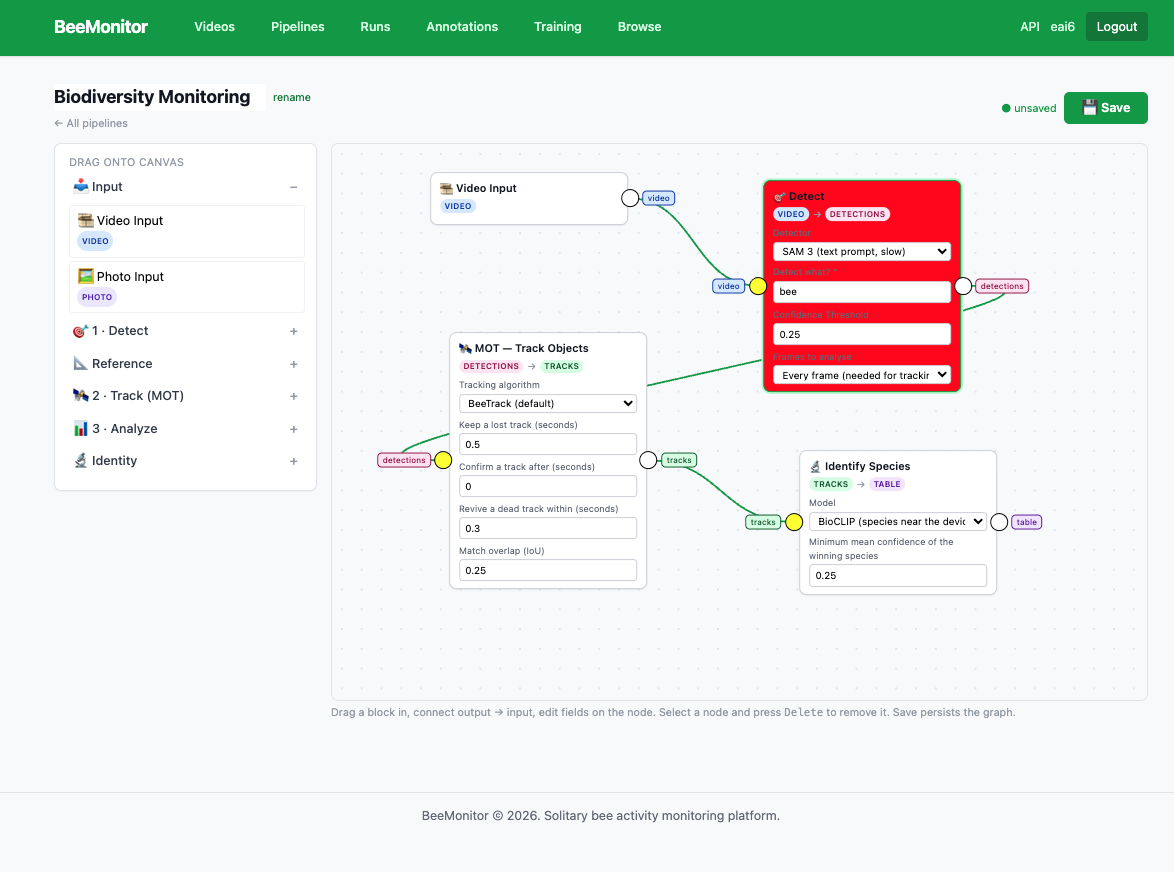
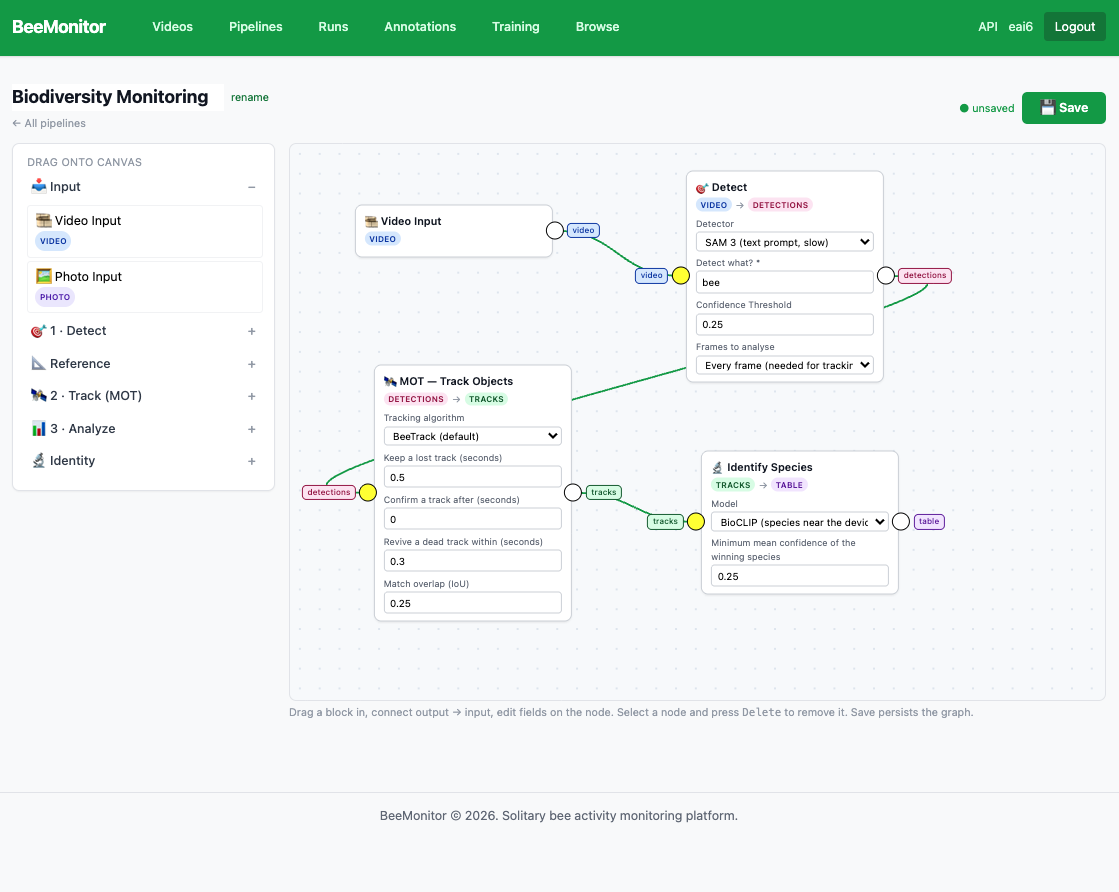
Docs: screenshots for every Use the platform page
22 figures (devices, ROI editor, sharing, upload, videos, photos, clip,
pipelines, editor, runs, batch, annotated clip, results, track crops,
annotation project and editor, training, browse, API). Key prefixes and
people's names are blurred. Text corrected to match the screens: sharing
lives under Edit, Runs filters, batch re-run through another pipeline,
training metrics.

diff --git a/docs/platform/runs.md b/docs/platform/runs.md
@@ -1,30 +1,65 @@
 # Runs
 
-**Runs** lists everything you've run. Running a pipeline on one clip is a *run*; running it on several clips
-at once is a *batch*, one run per clip. The list is grouped into **Still running**, **With failures**,
-**All completed** and **Single runs**.
+**Runs** lists everything you've run, newest first. Running a pipeline on several clips at once is a
+*batch*, one run per clip. Each row shows the pipeline, how many clips, when, and how many finished or
+failed. Filter by **With failures**, **Still running** or **All completed**, and open one with **Results →**.
+
+<figure markdown>
+  ![The Runs page: a list of launches, each with a progress bar, done and failed counts, and Results](../assets/platform/runs-list.png)
+  <figcaption>Runs.</figcaption>
+</figure>
 
 ## A batch
 
 The batch page combines its clips:
 
-- **Summary:** how many clips finished or failed, and the units and sites they came from.
-- **Downloads:** one CSV per table for every clip in the batch, each row labelled with its clip, device,
-  site and absolute time: **Detections**, **Tracking**, **Tracks**, **Events** and **Interactions**, plus
-  **Photos** for a photo batch. Only tables the batch produced are offered.
-- **Per clip:** each clip's status, counts and a link to its run.
+- **Outcome:** how many clips finished or failed, how many references were found, and the GPU time.
+- **Run these clips through another pipeline:** a new batch over the same clips. Detection and tracking
+  are reused where the new pipeline asks for the same thing, so a pipeline that differs only downstream
+  costs no GPU time.
+- **Download batch data:** one CSV per table for every clip in the batch, each row labelled with its clip,
+  device, site and absolute time: **Detections**, **Tracking**, **Tracks**, **Events** and
+  **Interactions**, plus **Photos** for a photo batch. Only tables the batch produced are offered.
+- **Per clip:** each clip's outcome, tracks, events, interactions, length and GPU time.
 
-When clips fail, the page groups them by cause. You can rerun only the failed clips or the whole batch.
-A rerun is a new batch, and the old one is kept for comparison.
+<figure markdown>
+  ![A batch page: outcome, a form to run the clips through another pipeline, the download buttons, and one row per clip](../assets/platform/batch.png)
+  <figcaption>A batch of three clips.</figcaption>
+</figure>
 
-## A run
+When clips fail, the page groups them by cause. You can rerun only the failed clips or the whole batch
+(**Re-run all**). A rerun is a new batch, and the old one is kept for comparison.
 
-A run shows each step and its output. **Results →** opens the clip's results:
+Click a clip to play its annotated video in place, with each track's box and ID and the reference objects;
+**Show original** switches to the clip as recorded, and **Earlier** and **Later** step through the batch.
 
-- the original video, and an annotated copy with boxes and track IDs;
-- the **Tracks**, **Tracking**, **Events** and **Interactions** tables, each with a CSV download;
-- **Track crops**: each track's sharpest crops, labelled with its species and marker. **Show all** loads
-  every crop, and clicking one enlarges it in place.
+<figure markdown>
+  ![A clip playing inside the batch page: numbered reference boxes and track IDs over a goldenrod patch](../assets/platform/run.png)
+  <figcaption>A clip in its batch, annotated: reference objects 1 and 2, and every track with its ID.</figcaption>
+</figure>
+
+## A clip's results
+
+**Full results** (or **crops & CSVs →** on a clip's row) opens the clip's results page:
+
+- counts of tracks, events and interactions, its length and GPU time;
+- the original video beside an annotated copy;
+- downloads of every table, the crop index and the annotated video;
+- the **Tracks**, **Tracking**, **Events** and **Interactions** tables, each with its own CSV download.
+
+<figure markdown>
+  ![A results page: count tiles, original and annotated videos, downloads, and the Tracks table with species per track](../assets/platform/results-tracks.png)
+  <figcaption>A clip's results. The Tracks table names each track's species, or unidentified when the vote was too weak.</figcaption>
+</figure>
+
+**Track crops** shows each track's sharpest 12 crops, with its species, how many crops voted for it and
+their mean confidence. **Show all** loads every crop, and clicking a crop enlarges it in place. **Per-crop
+votes CSV** has what the model read from each crop.
+
+<figure markdown>
+  ![Track crops: rows of bee crops per track, each labelled with its species, vote count and mean confidence](../assets/platform/track-crops.png)
+  <figcaption>Track crops, labelled by species vote.</figcaption>
+</figure>
 
 A photo's run shows the photo with a box on every insect, each insect's crop and species, and the counts.
 

diff --git a/docs/platform/devices.md b/docs/platform/devices.md
@@ -1,17 +1,37 @@
 # Devices
 
-**Devices** lists your units; each has a device page.
+**Devices** (the BeeMonitor logo) lists your units on a map and in a table: when each was last seen, whether
+it's online, its software version, how full its card is and how many videos it has uploaded. Units that need
+a software update can be updated from here, together or one at a time.
 
-<!-- SCREENSHOT: the device page -->
+<figure markdown>
+  ![The Devices page: a map of units above a table of name, last seen, status, version, storage and videos](../assets/platform/devices-list.png)
+  <figcaption>Devices: every unit, with its status, version and storage.</figcaption>
+</figure>
+
+Click a unit to open its device page: the latest picture with its ROI, storage, uptime, temperature, activity
+and uploads, and the state of every service the unit runs.
+
+<figure markdown>
+  ![A device page: the camera picture with the ROI, tiles for storage, uptime, CPU temperature, activity, videos uploaded and services, and a list of services](../assets/platform/device-detail.png)
+  <figcaption>A device page.</figcaption>
+</figure>
 
 ## Camera
 
 - **Take photo** — a picture from the camera now.
-- **Edit ROI & reference objects** — draw the hotel (the ROI) and its nest tubes (reference objects).
-  Motion only counts inside the ROI, and analysis uses the tubes to count nest visits. Each change is
-  kept as a new version, so older clips are analysed with the layout they were recorded with.
+- **Edit ROI & reference objects** — draw the ROI (the region watched for motion) and the reference
+  objects analysis measures against: nest tubes, flowers, pollen tubes. Use **Rectangle**, or **Polygon**
+  to keep grass and sky out of an irregular region. Motion only counts inside the ROI, and the **Motion
+  detection** panel sets how big a moving thing must be. Each change is kept as a new version, so older
+  clips are analysed with the layout they were recorded with.
 - **Autofocus** — focuses on the ROI (or the hotel it detected, or the centre) between clips and keeps
   that focus. **Reset focus** forgets it.
+
+<figure markdown>
+  ![The ROI editor: two polygon reference objects in red inside a green polygon ROI over a goldenrod patch, with Layout history and Motion detection panels](../assets/platform/device-roi.png)
+  <figcaption>Edit ROI & reference objects: a polygon ROI (green) around two flower patches drawn as reference objects (red).</figcaption>
+</figure>
 
 ## Recording
 
@@ -35,9 +55,16 @@ copies of everything already uploaded; the cloud copies are kept.
 
 ## Sharing
 
-On the device page, **Share** with a username or email:
+On the device page, **Edit → Sharing**: enter someone's username or email and choose their access. They need
+a BeeMonitor account. You stay the owner and can change or remove access at any time.
 
-| Role | Can |
+| Access | Can |
 |---|---|
-| Viewer | See the device, its clips, photos and results |
-| Manager | Also change camera, recording and processing settings |
+| Viewer | See the data: telemetry, weather, activity, videos, photos on demand. Can't change anything |
+| Manager | Also do maintenance: Wi-Fi, software updates, revoking the device |
+
+<figure markdown>
+  ![The Edit Device page: name, location label, latitude and longitude, device management, and a Sharing form](../assets/platform/device-share.png)
+  <figcaption>Edit device: its name and location, revoke or delete, and sharing.</figcaption>
+</figure>
+

diff --git a/docs/platform/videos.md b/docs/platform/videos.md
@@ -27,25 +27,55 @@ files again and they pick up where they stopped.
 - Files you already uploaded (same name and size) are skipped unless you say otherwise. AVI files are
   converted to MP4 after upload so they play in the browser; analysis can use them right away.
 
+<figure markdown>
+  ![The upload page: a drop zone, the four time sources, and Where, When, Label and Afterwards panels](../assets/platform/upload.png)
+  <figcaption>Upload videos and photos. The legend under the drop zone shows where each file's time came from.</figcaption>
+</figure>
+
 ### From code
 
 The [API](api.md) uploads clips and runs pipelines from a script or a notebook.
 
 ## Browsing videos and photos
 
-**Videos** shows your clips by day, filtered by hotel, date, hour of day and search.
-Switch to **Photos** for the periodic full-resolution photos.
+**Videos** shows your clips by day. Filter them on the left by unit, by date range (the bar chart shows
+how many clips each day has), by hours of the day across that range, by where they came from (units or
+uploads), and by clip id.
 
-<!-- SCREENSHOT: the Videos page -->
+<figure markdown>
+  ![The Videos page: filters on the left and a grid of clip thumbnails grouped by day](../assets/platform/videos-browse.png)
+  <figcaption>Videos: clips grouped by day, filtered to one unit and two days.</figcaption>
+</figure>
 
 - Hover a clip to preview it; click to open it.
-- Select clips, choose a pipeline, **Run pipeline** ([Pipelines](pipelines.md)).
+- Select clips (or **Select all**), choose a pipeline under **Pipeline to run**, and **Run pipeline**
+  ([Pipelines](pipelines.md)).
+
+<figure markdown>
+  ![Two clips selected in the grid, with Biodiversity Monitoring chosen under Pipeline to run and a Run pipeline (2) button](../assets/platform/videos-run.png)
+  <figcaption>Two clips selected and a pipeline chosen.</figcaption>
+</figure>
+
+Switch to **Photos** for photos: a unit's full-resolution photos and photos you uploaded. Run a pipeline on
+them the same way, with a pipeline that starts from a **Photo Input**.
+
+<figure markdown>
+  ![The Photos tab: a grid of photo thumbnails grouped by day](../assets/platform/videos-photos.png)
+  <figcaption>Videos → Photos.</figcaption>
+</figure>
 
 ### A clip's page
 
-The player, its resolution, frame rate and length, the **photos taken at the trigger** (when motion
-photos are on) and the clip's analysis runs. **Delete from device** frees its space on the card;
+The player; the clip's status, site, recording and upload times, length, resolution, frame rate and file
+size; the **photos taken at the trigger** (when motion photos are on); and its analysis jobs. **Prev** and
+**Next** step through the unit's clips. **Delete from device** frees its space on the card;
 **Delete video** removes it from the cloud too.
+
+<figure markdown>
+  ![A clip page: the video player, then status, site, recorded, file size, uploaded, duration, resolution and FPS, then device storage](../assets/platform/clip.png)
+  <figcaption>A clip's page.</figcaption>
+</figure>
+
 
 ### A photo's page
 

diff --git a/docs/platform/pipelines.md b/docs/platform/pipelines.md
@@ -3,12 +3,26 @@
 A pipeline is a chain of steps run on each clip: detect, track, measure against a reference. It doesn't
 name a clip; you choose the clips when you run it. The [steps and templates](#steps) are listed below.
 
-<!-- SCREENSHOT: the pipeline builder -->
 
 ## Build one
 
-**Pipelines → New**, or start from a template (Foraging trips, Flower / ROI visitation, Pollen assay,
-Interactions, Individual bee IDs). Drag steps from the palette and connect them.
+**Pipelines** lists your pipelines. **+ New pipeline** starts one, from scratch or from a template
+(Foraging trips, Flower / ROI visitation, Pollen assay, Interactions, Individual bee IDs). **Run history**
+goes to [Runs](runs.md).
+
+<figure markdown>
+  ![The Pipelines page: four pipelines, each with its description, step count, Edit and Delete](../assets/platform/pipelines-list.png)
+  <figcaption>Pipelines.</figcaption>
+</figure>
+
+In the editor, drag blocks from the palette onto the canvas, connect each output to the next block's input,
+and set each block's options on the node. **Save** keeps it.
+
+<figure markdown>
+  ![The pipeline editor: Video Input wired to Detect (SAM 3, bee), then MOT tracking (BeeTrack), then Identify Species (BioCLIP, minimum mean confidence 0.25)](../assets/platform/pipeline-editor.png)
+  <figcaption>A biodiversity-monitoring pipeline: detect bees, track them, and name each track's species.</figcaption>
+</figure>
+
 
 ## Run it
 

diff --git a/docs/platform/training.md b/docs/platform/training.md
@@ -18,13 +18,25 @@ Your models then appear in a pipeline's **Detect** step.
 
 Training typically takes 500 to 5,000 GPU seconds, depending on the number of frames, epochs and tier.
 
+<figure markdown>
+  ![The New Training Job form: annotation project, job name, base model, training frames, classes, epochs, image size, batch size, validation split and GPU tier](../assets/platform/training-new.png)
+  <figcaption>New training job.</figcaption>
+</figure>
+
 ## A training job
 
-The job page shows its configuration, the frames used, and, when it finishes:
+The job page shows its configuration and status, and, when it finishes:
 
-- **Detection quality** per epoch (higher is better) and **training loss** (lower is better);
+- **Training metrics** on the held-back frames: mAP50, mAP50-95, precision and recall, and how they changed
+  over the epochs;
 - **Validation predictions**: the model's boxes on held-back frames, to check by eye;
 - the **resulting model**, ready to choose in a pipeline.
+
+<figure markdown>
+  ![A finished training job: configuration, status, metrics (mAP50 0.803, precision 0.815, recall 0.825) and the resulting model](../assets/platform/training-job.png)
+  <figcaption>A finished training job.</figcaption>
+</figure>
+
 
 ## Custom models
 

diff --git a/docs/platform/annotations.md b/docs/platform/annotations.md
@@ -10,6 +10,19 @@ or a hotel the built-in models haven't seen. Once a project is labelled, [train 
 3. **Clips → Sample & label**: the GPU finds the busiest frames of each clip and labels them with SAM 3.
 4. **Frames to review**: check each frame. Keep, move or delete boxes, and add anything it missed.
 
+<figure markdown>
+  ![An annotation project: clips, labelled frames and reviewed frames, the review queue, filters, and a grid of frames to review](../assets/platform/annotations-project.png)
+  <figcaption>A project with 7,188 labelled frames, three of them reviewed so far.</figcaption>
+</figure>
+
+In the editor, pick the **Active class** and draw boxes; **Min confidence** hides weak auto-labels, which are
+dropped on save. **Mark empty** records a frame with no insect.
+
+<figure markdown>
+  ![The annotation editor: a bee hotel frame with one box, and panels for active class, minimum confidence, boxes and saving](../assets/platform/annotation-editor.png)
+  <figcaption>The annotation editor.</figcaption>
+</figure>
+
 **Export** downloads the labelled dataset in YOLO format.
 
 ## Working as a team

diff --git a/docs/platform/browse.md b/docs/platform/browse.md
@@ -9,5 +9,10 @@ the owner can change them.
 - **Models**: a published model can be chosen in your own pipeline's **Detect** step. Its card records the
   dataset it was trained on and how large that dataset was at training time.
 
+<figure markdown>
+  ![Shared publicly: one published dataset card with its classes, frames, boxes, clips and hotels, and Take a copy](../assets/platform/browse.png)
+  <figcaption>Browse: a published dataset.</figcaption>
+</figure>
+
 To publish your own, use **Publish** on an [annotation project](annotations.md#publishing-a-project) or a
 [trained model](training.md#custom-models).

diff --git a/docs/platform/api.md b/docs/platform/api.md
@@ -13,6 +13,11 @@ Authorization: Bearer <your key>
 
 Base URL: `https://beemonitor.edwardamoah.com/api/v1/`
 
+<figure markdown>
+  ![The Developer Portal: key counts, a Create API Key form, the list of keys with Revoke, and recent API usage](../assets/platform/api-keys.png)
+  <figcaption>The API page. Revoke a key here when you no longer need it.</figcaption>
+</figure>
+
 ## Endpoints
 
 | Method | Path | Does |
